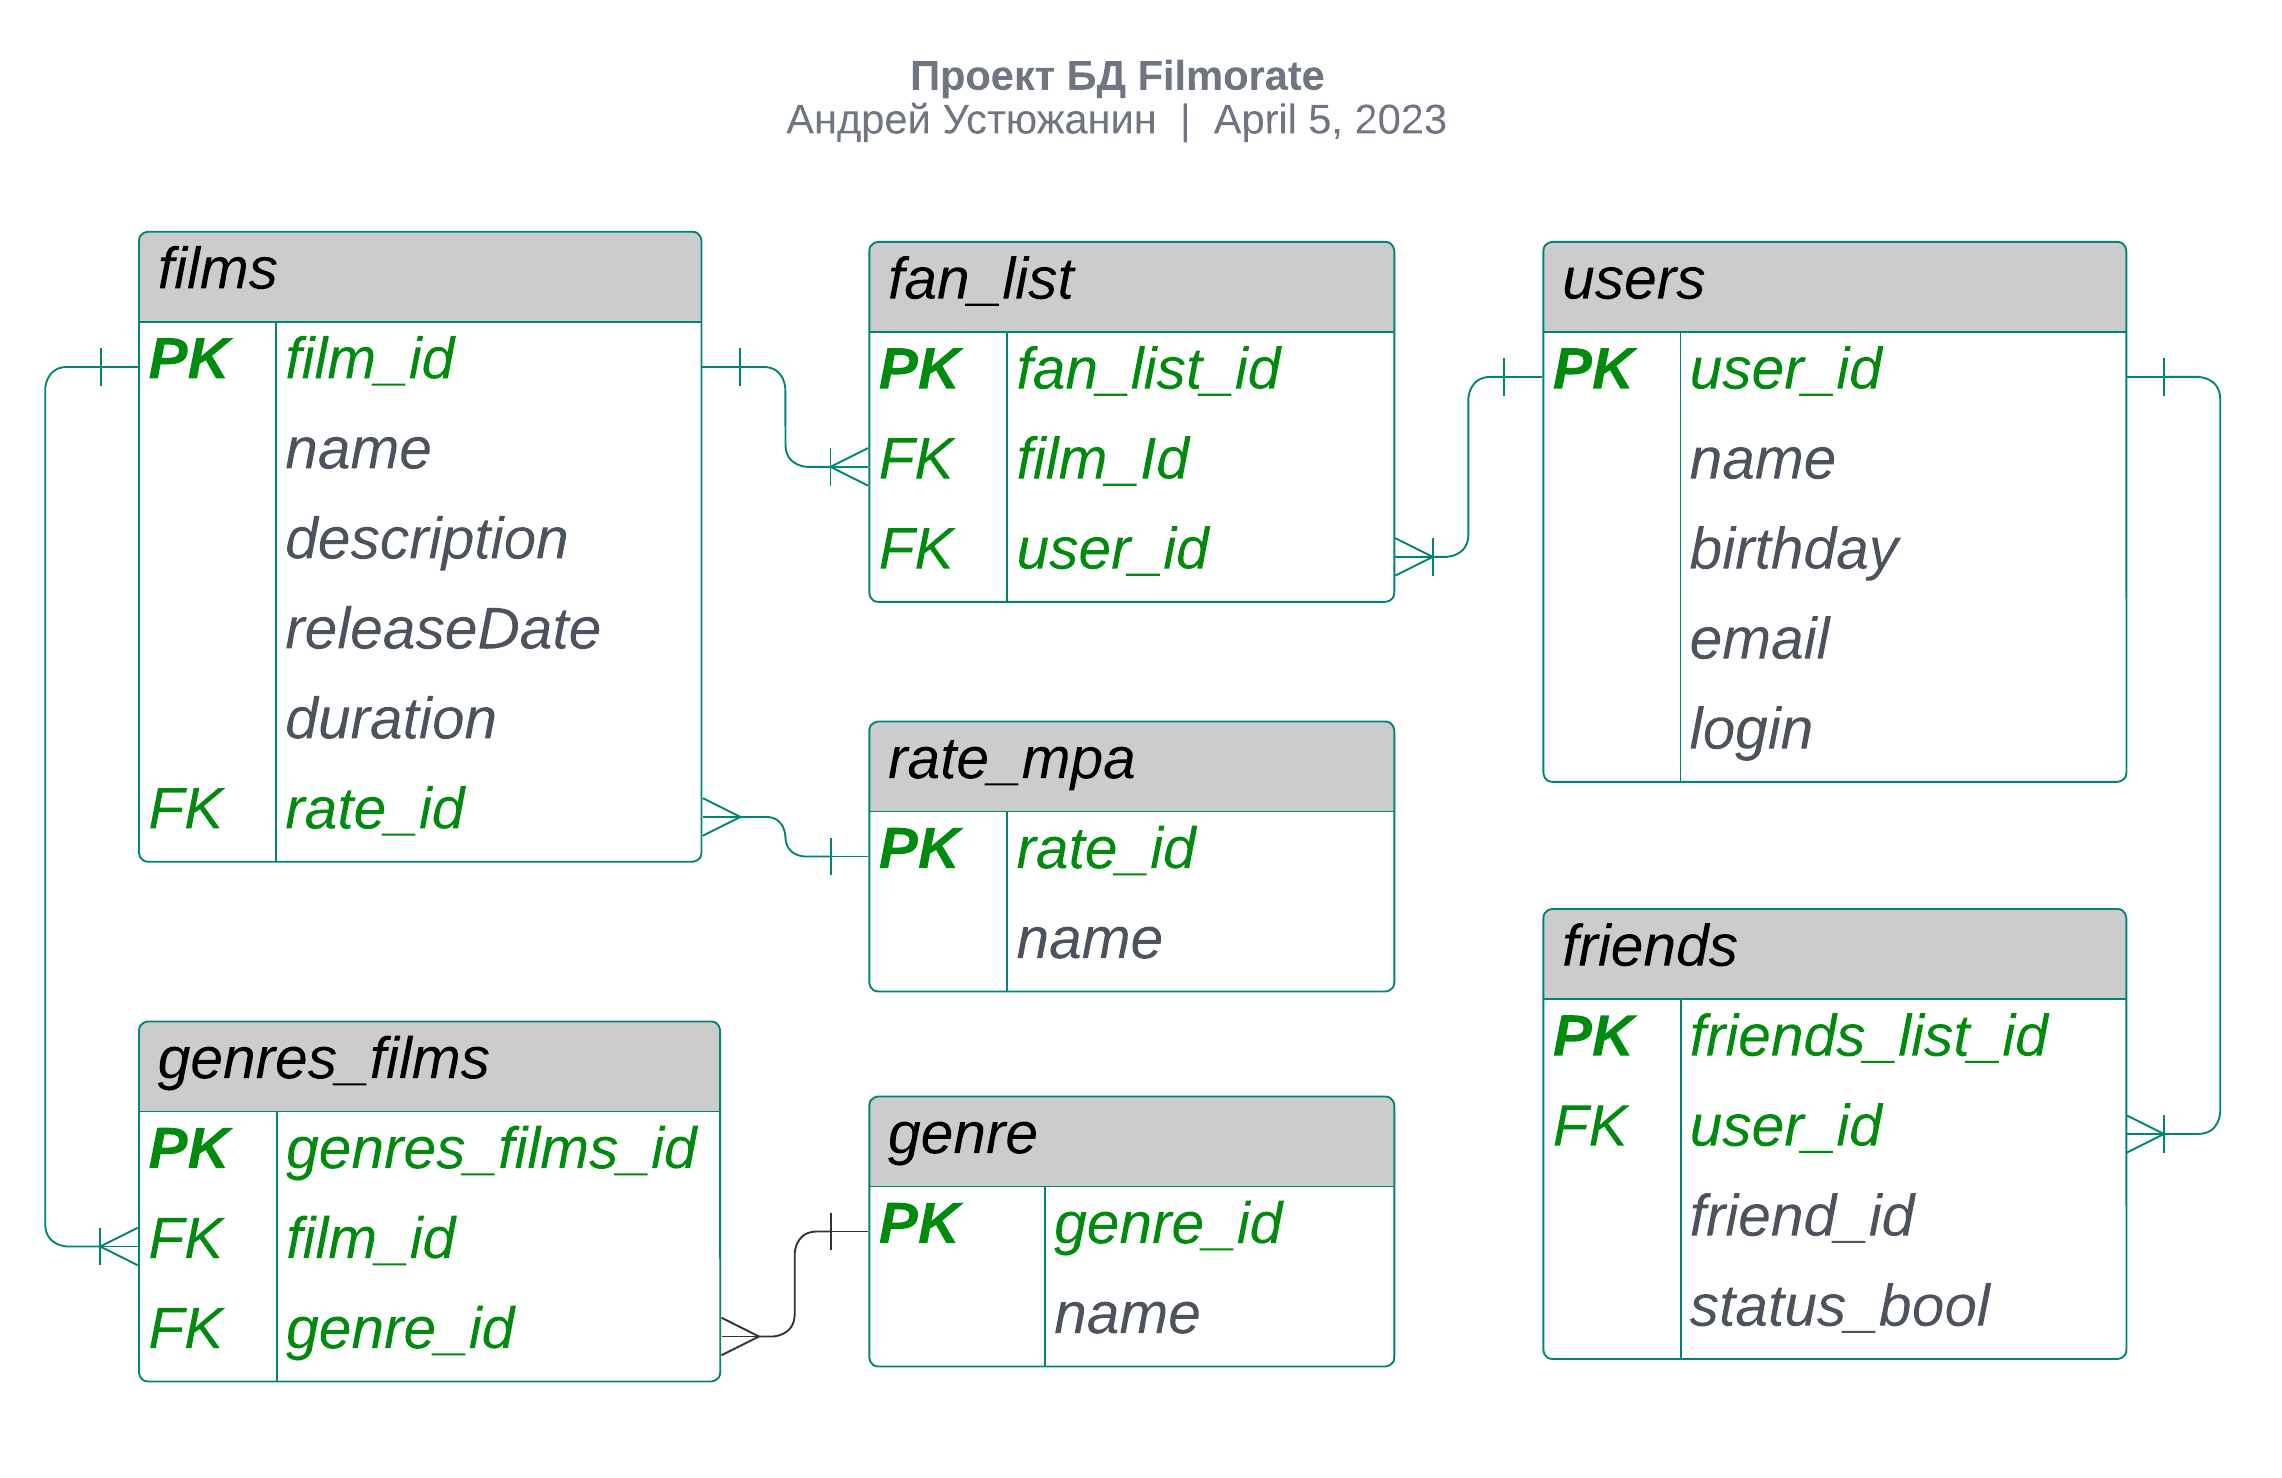
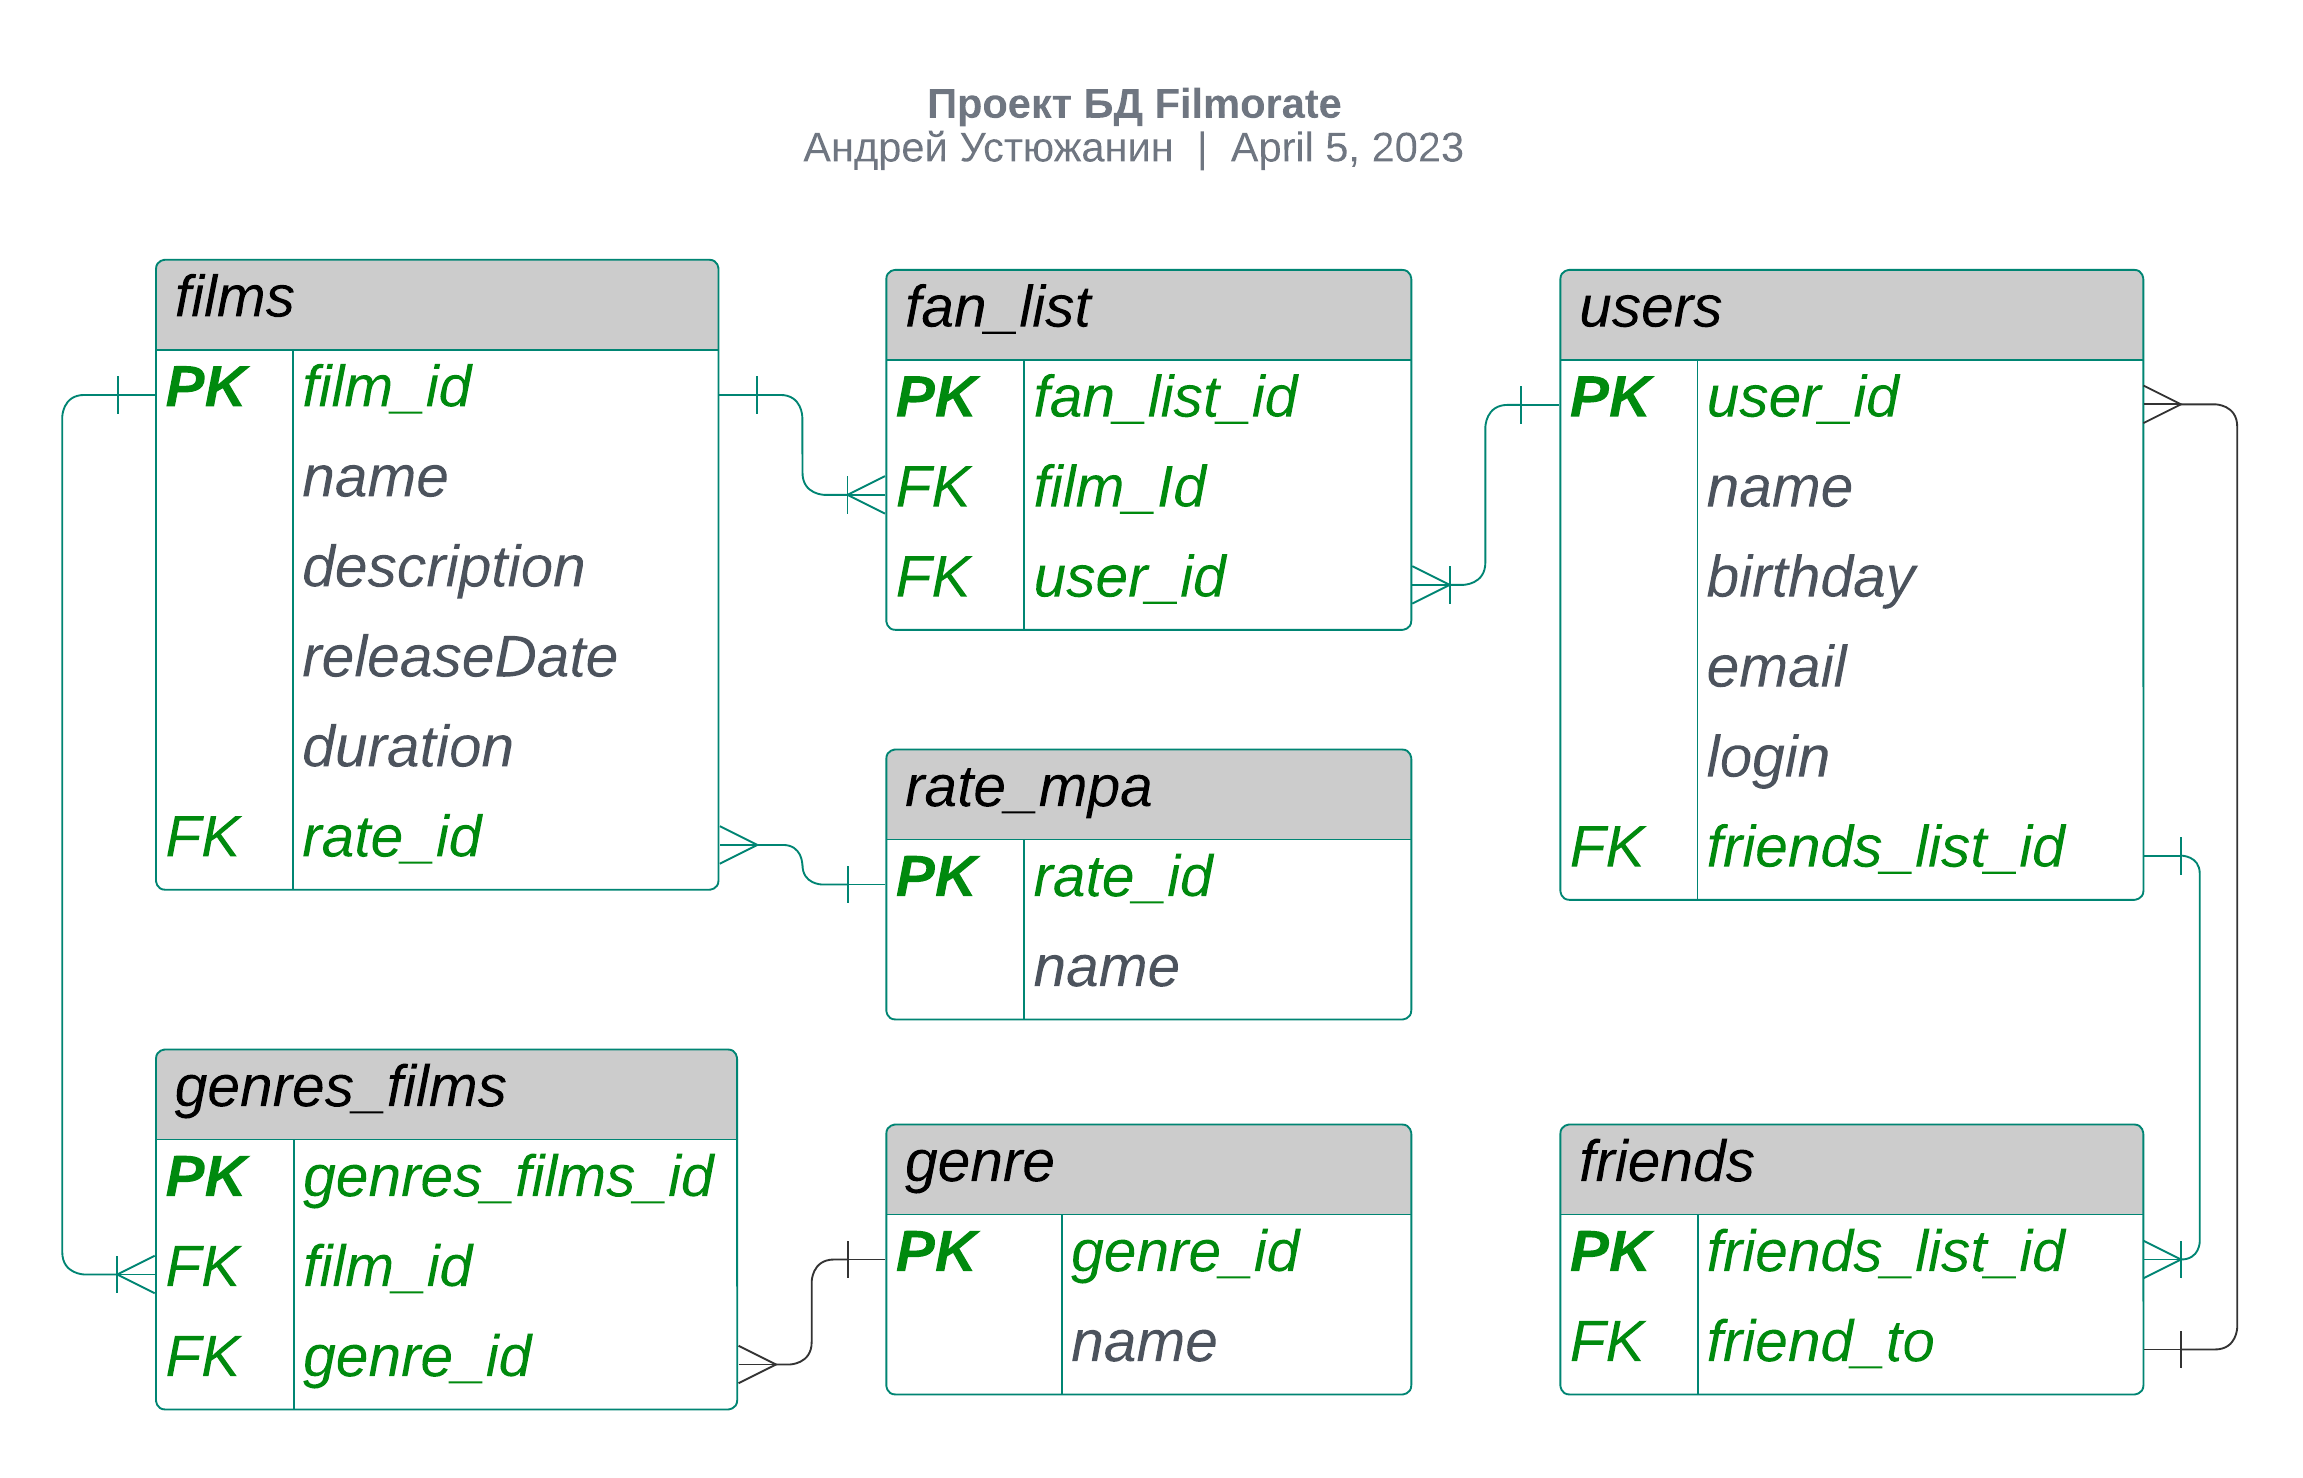
fix: доработать связи user и friends

diff --git a/src/main/java/ru/yandex/practicum/filmorate/model/User.java b/src/main/java/ru/yandex/practicum/filmorate/model/User.java
@@ -16,3 +16,12 @@ public class User {
     private String name;
     private String birthday;
 }
+
+
+/*
+User
+Добавьте статус для связи «дружба» между двумя пользователями:
+неподтверждённая — когда один пользователь отправил запрос на добавление другого пользователя в друзья,
+подтверждённая — когда второй пользователь согласился на добавление.
+
+ */
